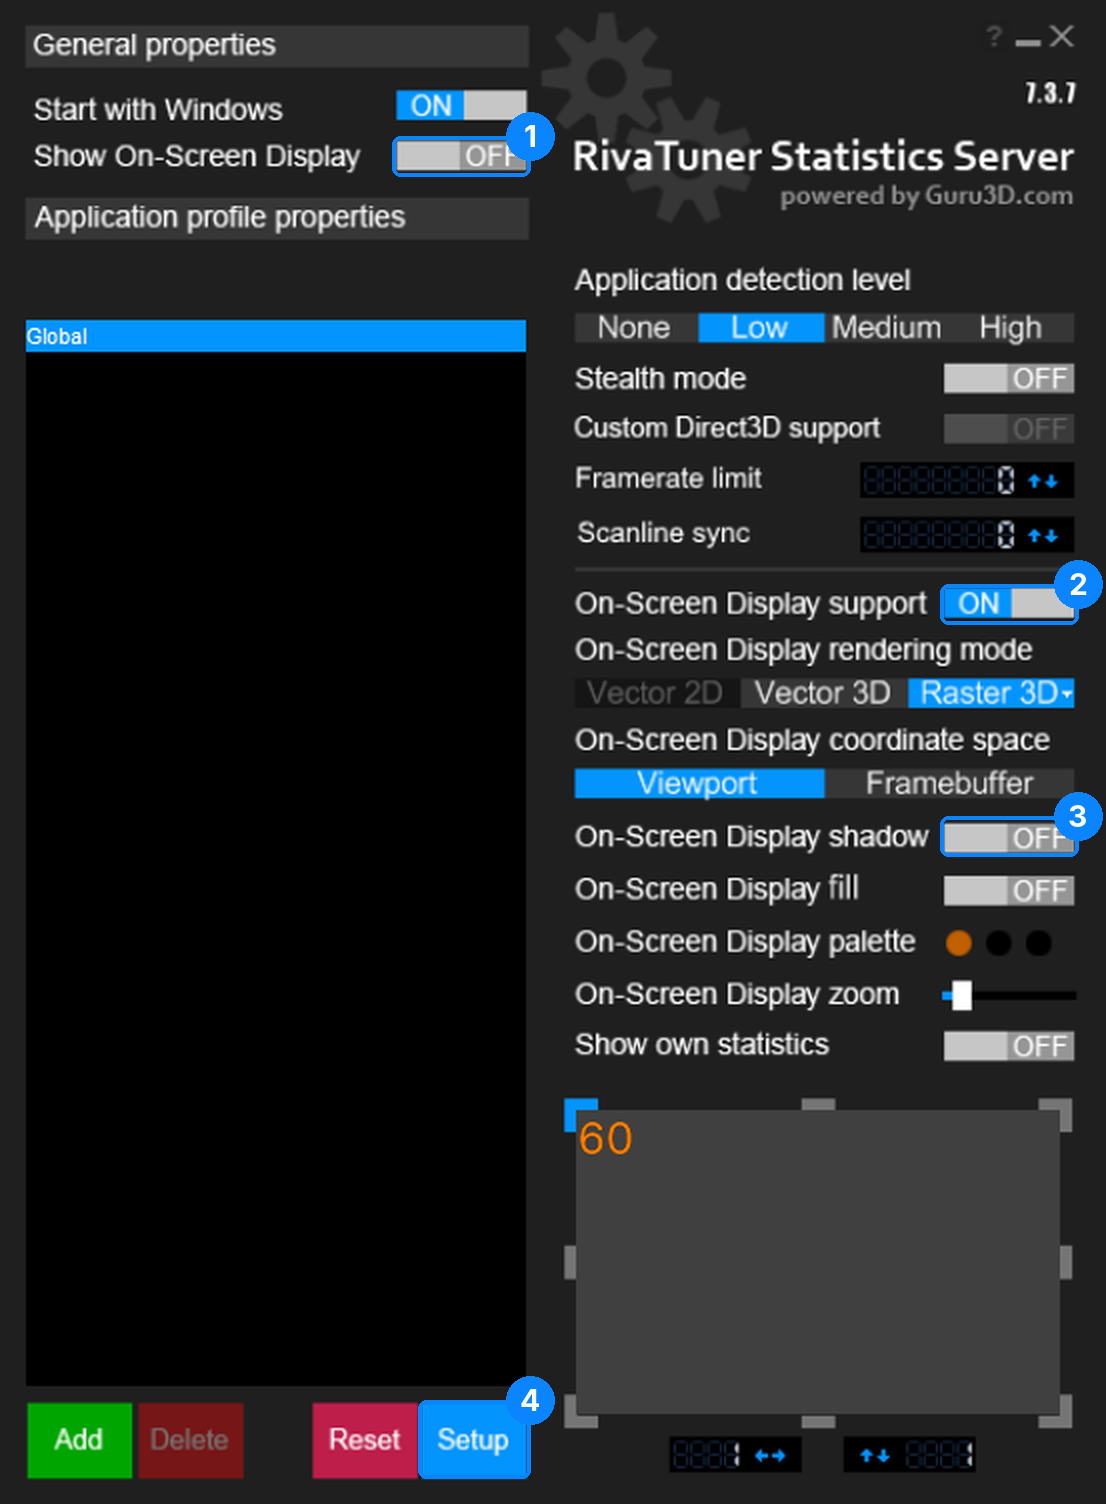
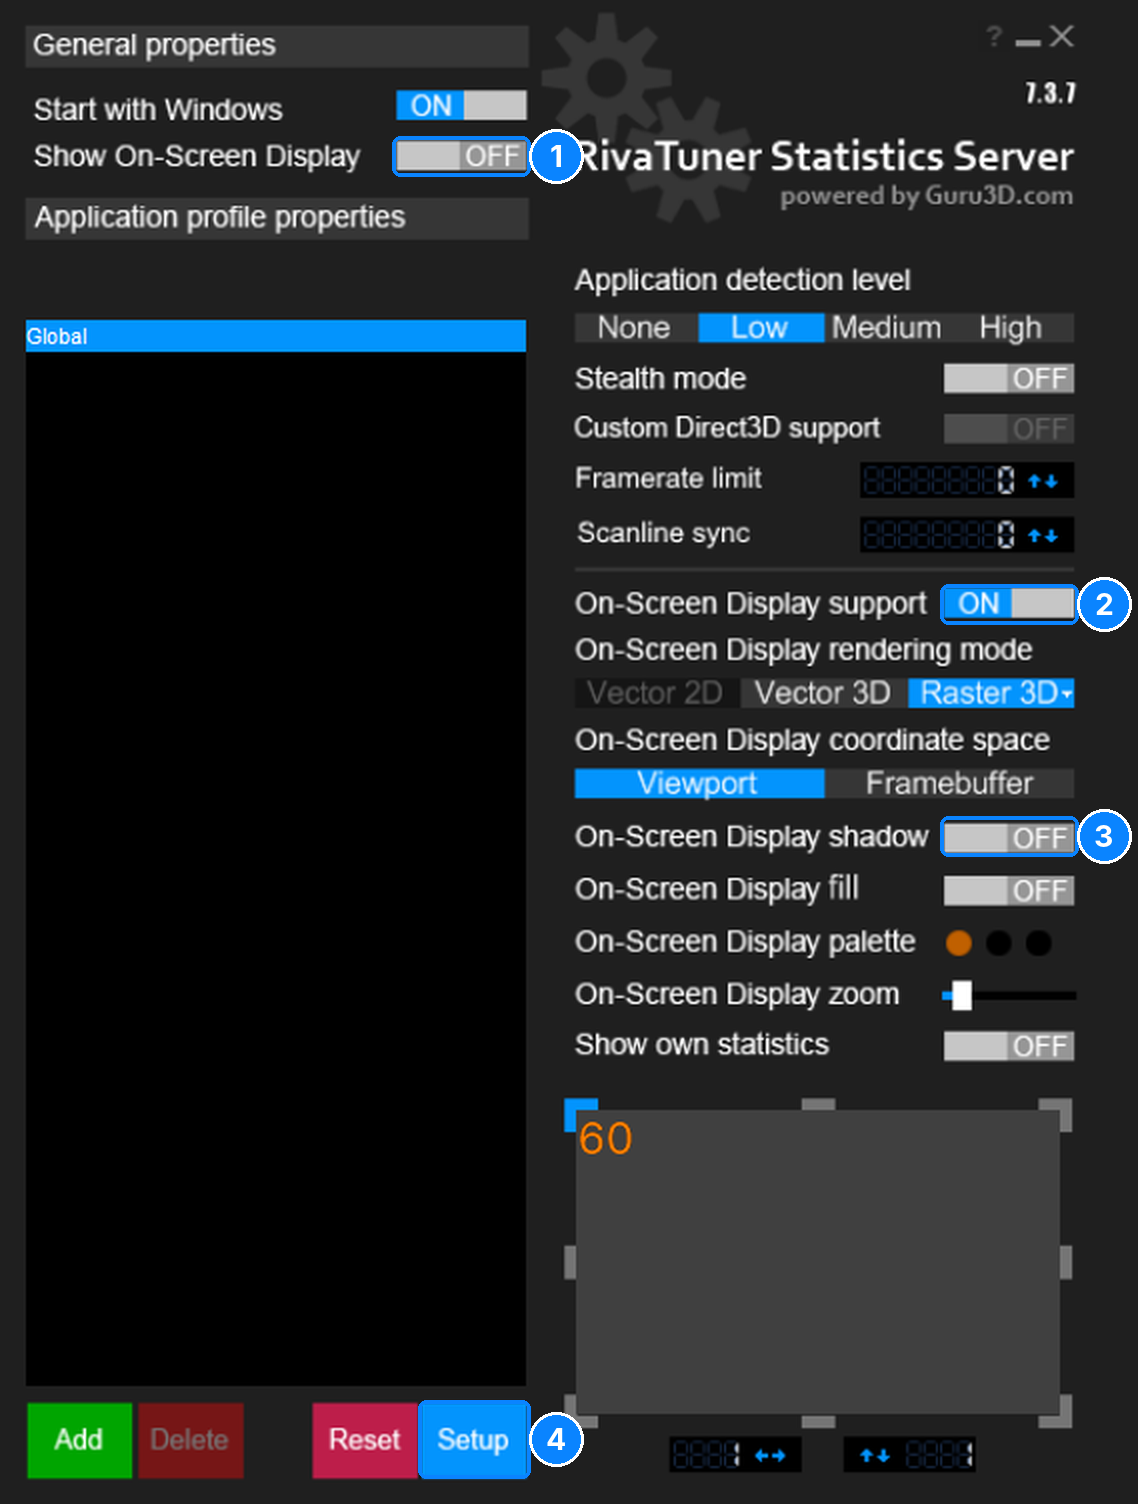
read.me

diff --git a/README.md b/README.md
@@ -206,13 +206,14 @@ Open RTSS (the monitor icon in your taskbar tray). The numbers in the pictures m
 <a id="benchmark-tip"></a>
 In **Setup**, stay on the **General** tab. The FPS, 1% low and 0.1% low numbers depend on these. If they're changed, the lows can show **0** or freeze:
 
-| Setting (General tab) | Set it to |
-|---|---|
-| **Framerate averaging interval** | **1000** |
-| **Refresh period** | **500** |
-| **Percentile calculation mode** | **integral** |
-| **Percentile buffer** | **ring** (keeps the 1% / 0.1% lows updating live) |
-| **Enable benchmark mode** (**scroll down** to *Compatibility properties*) | ✅ **ON**. Sometimes this is what makes the overlay show up in a game |
+| # | In **Setup → General** tab | Set it to |
+|---|---|---|
+| 5 | **General** tab | It opens on this tab |
+| 6 | **Framerate averaging interval** | **1000** |
+| 7 | **Refresh period** | **500** |
+| 8 | **Percentile calculation mode** | **integral** |
+| 9 | **Percentile buffer** | **ring** (keeps the 1% / 0.1% lows updating live) |
+| 10 | **Enable benchmark mode**: **scroll down** to *Compatibility properties* | ✅ **ON**. Sometimes this is what makes the overlay show up in a game |
 
 <img src="previews/setup/rtss_general.png" width="420" alt="RTSS Setup General tab: framerate averaging 1000, refresh 500, percentile integral, buffer ring"> <img src="previews/setup/rtss_benchmark.png" width="420" alt="Scroll down: Compatibility properties, Enable benchmark mode ticked">
 
@@ -220,11 +221,11 @@ Then open the **Plugins** tab:
 
 | # | In **Setup → Plugins** tab | Do this |
 |---|---|---|
-| 5 | **HotkeyHandler.dll** | ✅ Tick it |
-| 6 | **OverlayEditor.dll** | ✅ Tick it, then **click its name** so it's highlighted in blue |
-| 7 | **Setup** button (under the list) | Click it. This opens the **Overlay editor**, where you load the overlays. ⚠ It only opens if OverlayEditor.dll is both **ticked and highlighted** |
+| 11 | **HotkeyHandler.dll** | ✅ Tick it |
+| 12 | **OverlayEditor.dll** | ✅ Tick it, then **click its name** so it's highlighted in blue |
+| 13 | **Setup** button (under the list) | Click it. This opens the **Overlay editor**, where you load the overlays. ⚠ It only opens if OverlayEditor.dll is both **ticked and highlighted** |
 
-<img src="previews/setup/rtss_plugins.png" width="320" alt="RTSS Setup, Plugins tab: 5 HotkeyHandler.dll, 6 OverlayEditor.dll, 7 Setup">
+<img src="previews/setup/rtss_plugins.png" width="320" alt="RTSS Setup, Plugins tab: 11 HotkeyHandler.dll, 12 OverlayEditor.dll, 13 Setup">
 
 Close the Overlay editor for now and click **OK** in Setup. You'll open it again in [step 7](#load-it) to load your overlay.
 
@@ -233,7 +234,7 @@ Close the Overlay editor for now and click **OK** in Setup. You'll open it again
 
 Each pack has every overlay in every theme, sorted into **Dark**, **White**, **Smoke** and **Float** folders. **🟢 Essential** = no HWiNFO needed.
 
-> 💻 **On a laptop?** Use the [laptop packs](#laptop-download) below: they have slim designs made for laptop screens. The 16:10 rows here are the normal desktop overlays for 16:10 **monitors**.
+> 💻 **On a laptop?** Use the [laptop packs](#laptop-download) below.
 
 | Screen | Resolution | 🟢 Essential | ⚡ Volt |
 |---|---|---|---|
@@ -247,20 +248,19 @@ Each pack has every overlay in every theme, sorted into **Dark**, **White**, **S
 | 32:9 super-ultrawide | `5120x1440` | [⬇ Download](https://github.com/realHfde/Apple-Style-Inspired-RTSS-Overlay/releases/latest/download/Essential.overlays.5120x1440.zip) | [⬇ Download](https://github.com/realHfde/Apple-Style-Inspired-RTSS-Overlay/releases/latest/download/Volt.overlays.5120x1440.zip) |
 | 5K2K ultrawide (e.g. LG 45" / 40" 5K2K) | `5120x2160` | [⬇ Download](https://github.com/realHfde/Apple-Style-Inspired-RTSS-Overlay/releases/latest/download/Essential.overlays.5120x2160.zip) | [⬇ Download](https://github.com/realHfde/Apple-Style-Inspired-RTSS-Overlay/releases/latest/download/Volt.overlays.5120x2160.zip) |
 | 32:9 dual-4K (e.g. Samsung Odyssey Neo G9 57") | `7680x2160` | [⬇ Download](https://github.com/realHfde/Apple-Style-Inspired-RTSS-Overlay/releases/latest/download/Essential.overlays.7680x2160.zip) | [⬇ Download](https://github.com/realHfde/Apple-Style-Inspired-RTSS-Overlay/releases/latest/download/Volt.overlays.7680x2160.zip) |
-| 16:10 monitor | `1920x1200` | [⬇ Download](https://github.com/realHfde/Apple-Style-Inspired-RTSS-Overlay/releases/latest/download/Essential.overlays.1920x1200.zip) | [⬇ Download](https://github.com/realHfde/Apple-Style-Inspired-RTSS-Overlay/releases/latest/download/Volt.overlays.1920x1200.zip) |
-| 16:10 monitor | `2560x1600` | [⬇ Download](https://github.com/realHfde/Apple-Style-Inspired-RTSS-Overlay/releases/latest/download/Essential.overlays.2560x1600.zip) | [⬇ Download](https://github.com/realHfde/Apple-Style-Inspired-RTSS-Overlay/releases/latest/download/Volt.overlays.2560x1600.zip) |
-| 16:10 monitor | `2880x1800` | [⬇ Download](https://github.com/realHfde/Apple-Style-Inspired-RTSS-Overlay/releases/latest/download/Essential.overlays.2880x1800.zip) | [⬇ Download](https://github.com/realHfde/Apple-Style-Inspired-RTSS-Overlay/releases/latest/download/Volt.overlays.2880x1800.zip) |
 
 <a id="laptop-download"></a>
-**💻 Laptop packs** (the new laptop designs; no HWiNFO needed):
+**💻 Laptop packs** (no HWiNFO needed). Two choices for every laptop screen:
+- **Laptop designs**: the slim Notch, Minibar, Island and Card, made for laptops.
+- **Normal designs**: the regular 🟢 Essential overlays (Sleek, Sleek Compact, Rings and the rest), sized for your laptop screen.
 
-| Laptop screen | Resolution | Download |
-|---|---|---|
-| 💻 Full HD | `1920x1080` | [⬇ Download laptop pack](https://github.com/realHfde/Apple-Style-Inspired-RTSS-Overlay/releases/latest/download/Laptop.overlays.1920x1080.zip) |
-| 💻 16:10 (most budget / mid-range gaming laptops) | `1920x1200` | [⬇ Download laptop pack](https://github.com/realHfde/Apple-Style-Inspired-RTSS-Overlay/releases/latest/download/Laptop.overlays.1920x1200.zip) |
-| 💻 QHD | `2560x1440` | [⬇ Download laptop pack](https://github.com/realHfde/Apple-Style-Inspired-RTSS-Overlay/releases/latest/download/Laptop.overlays.2560x1440.zip) |
-| 💻 16:10 (most new high-end gaming laptops) | `2560x1600` | [⬇ Download laptop pack](https://github.com/realHfde/Apple-Style-Inspired-RTSS-Overlay/releases/latest/download/Laptop.overlays.2560x1600.zip) |
-| 💻 16:10 OLED | `2880x1800` | [⬇ Download laptop pack](https://github.com/realHfde/Apple-Style-Inspired-RTSS-Overlay/releases/latest/download/Laptop.overlays.2880x1800.zip) |
+| Laptop screen | Resolution | 💻 Laptop designs | 🟢 Normal designs |
+|---|---|---|---|
+| 💻 Full HD | `1920x1080` | [⬇ Download](https://github.com/realHfde/Apple-Style-Inspired-RTSS-Overlay/releases/latest/download/Laptop.overlays.1920x1080.zip) | [⬇ Download](https://github.com/realHfde/Apple-Style-Inspired-RTSS-Overlay/releases/latest/download/Essential.overlays.1920x1080.zip) |
+| 💻 16:10 (most budget / mid-range gaming laptops) | `1920x1200` | [⬇ Download](https://github.com/realHfde/Apple-Style-Inspired-RTSS-Overlay/releases/latest/download/Laptop.overlays.1920x1200.zip) | [⬇ Download](https://github.com/realHfde/Apple-Style-Inspired-RTSS-Overlay/releases/latest/download/Essential.overlays.1920x1200.zip) |
+| 💻 QHD | `2560x1440` | [⬇ Download](https://github.com/realHfde/Apple-Style-Inspired-RTSS-Overlay/releases/latest/download/Laptop.overlays.2560x1440.zip) | [⬇ Download](https://github.com/realHfde/Apple-Style-Inspired-RTSS-Overlay/releases/latest/download/Essential.overlays.2560x1440.zip) |
+| 💻 16:10 (most new high-end gaming laptops) | `2560x1600` | [⬇ Download](https://github.com/realHfde/Apple-Style-Inspired-RTSS-Overlay/releases/latest/download/Laptop.overlays.2560x1600.zip) | [⬇ Download](https://github.com/realHfde/Apple-Style-Inspired-RTSS-Overlay/releases/latest/download/Essential.overlays.2560x1600.zip) |
+| 💻 16:10 OLED | `2880x1800` | [⬇ Download](https://github.com/realHfde/Apple-Style-Inspired-RTSS-Overlay/releases/latest/download/Laptop.overlays.2880x1800.zip) | [⬇ Download](https://github.com/realHfde/Apple-Style-Inspired-RTSS-Overlay/releases/latest/download/Essential.overlays.2880x1800.zip) |
 
 <a id="tv-download"></a>
 **📺 TV packs** (no HWiNFO needed, any TV size):
@@ -302,19 +302,19 @@ The theme is in the file name: no ending = **Dark**, then `_white`, `_smoke` and
 
 Open the Overlay editor the same way as in step 4: **RTSS → Setup → Plugins → select OverlayEditor.dll → Setup**.
 
-<img src="previews/setup/editor_load.png" width="640" alt="Overlay editor: 8 Layouts menu, 9 Load">
+<img src="previews/setup/editor_load.png" width="640" alt="Overlay editor: 14 Layouts menu, 15 Load">
 
 | # | In the Overlay editor | Do this |
 |---|---|---|
-| 8 | **Layouts** menu (top left) | Click it |
-| 9 | **Load** | Click it |
+| 14 | **Layouts** menu (top left) | Click it |
+| 15 | **Load** | Click it |
 
-<img src="previews/setup/editor_open.png" width="640" alt="Open window: 10 pick the overlay file, 11 Open">
+<img src="previews/setup/editor_open.png" width="640" alt="Open window: 16 pick the overlay file, 17 Open">
 
 | # | In the Open window | Do this |
 |---|---|---|
-| 10 | Pick your overlay | e.g. `essential_sleek_smoke.ovl` |
-| 11 | **Open** | Click it, then launch a game |
+| 16 | Pick your overlay | e.g. `essential_sleek_smoke.ovl` |
+| 17 | **Open** | Click it, then launch a game |
 
 > 💡 **Can't see your overlay in the editor?** These are demo pictures. **Maximize the Overlay editor (full screen)** to see your overlay where it will sit in game: at the **top centre**, or on the **right edge** for Sleek Side and Performance.
 
